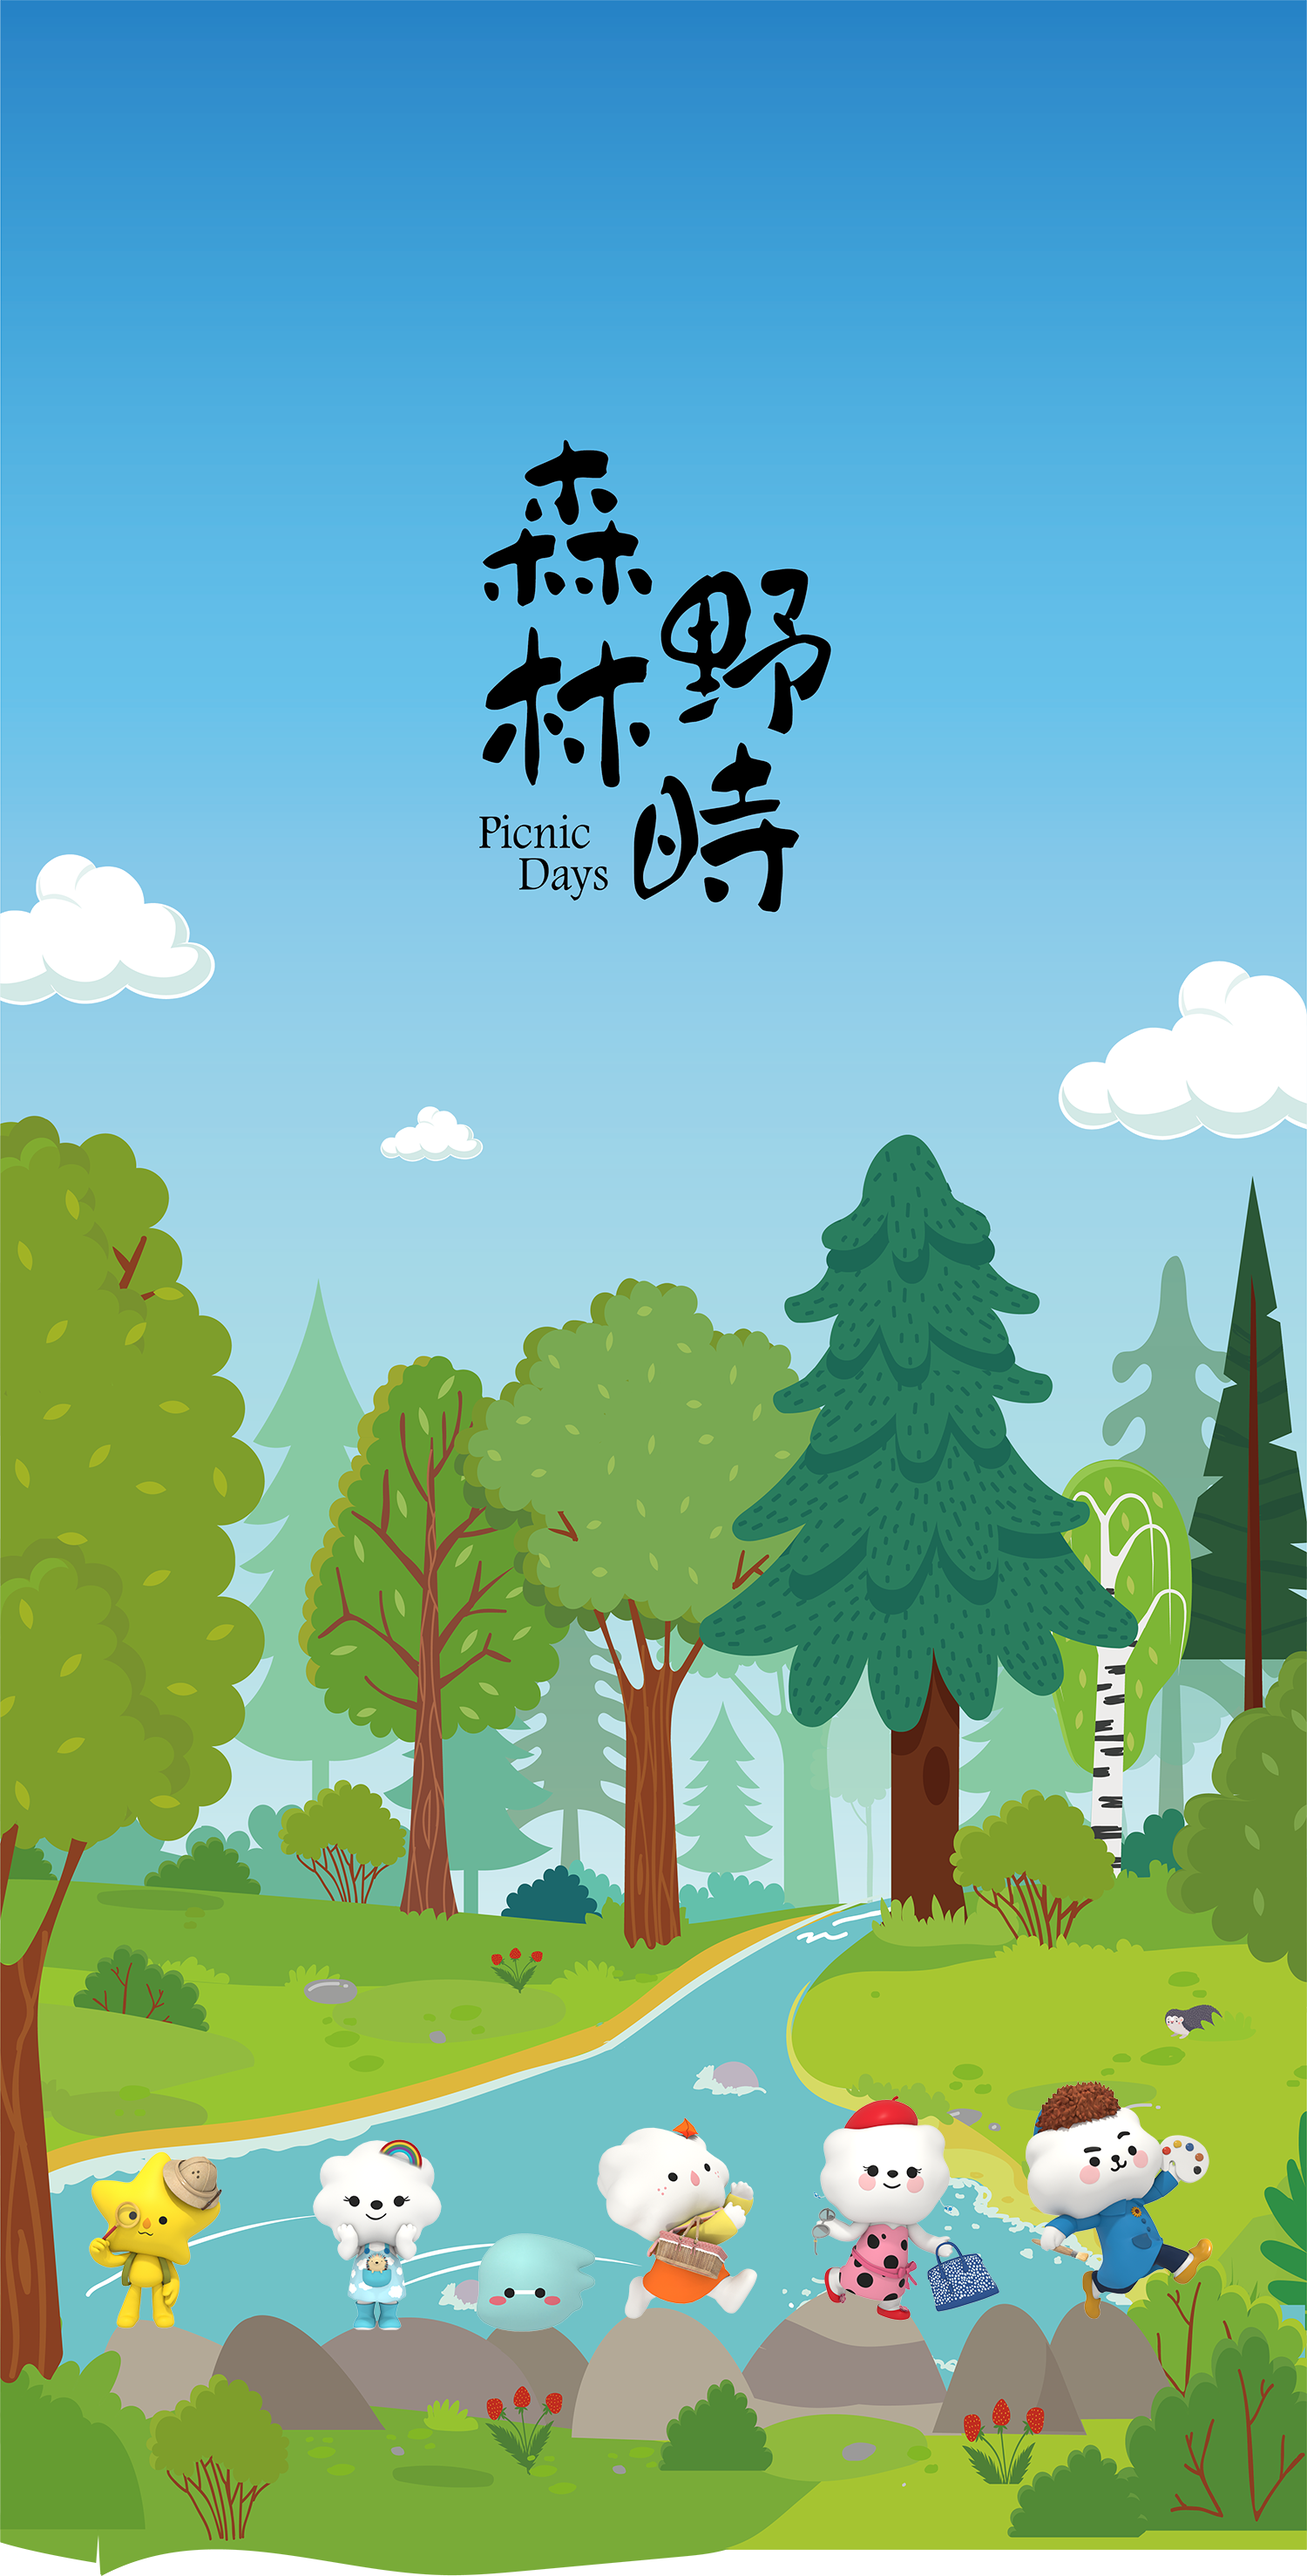
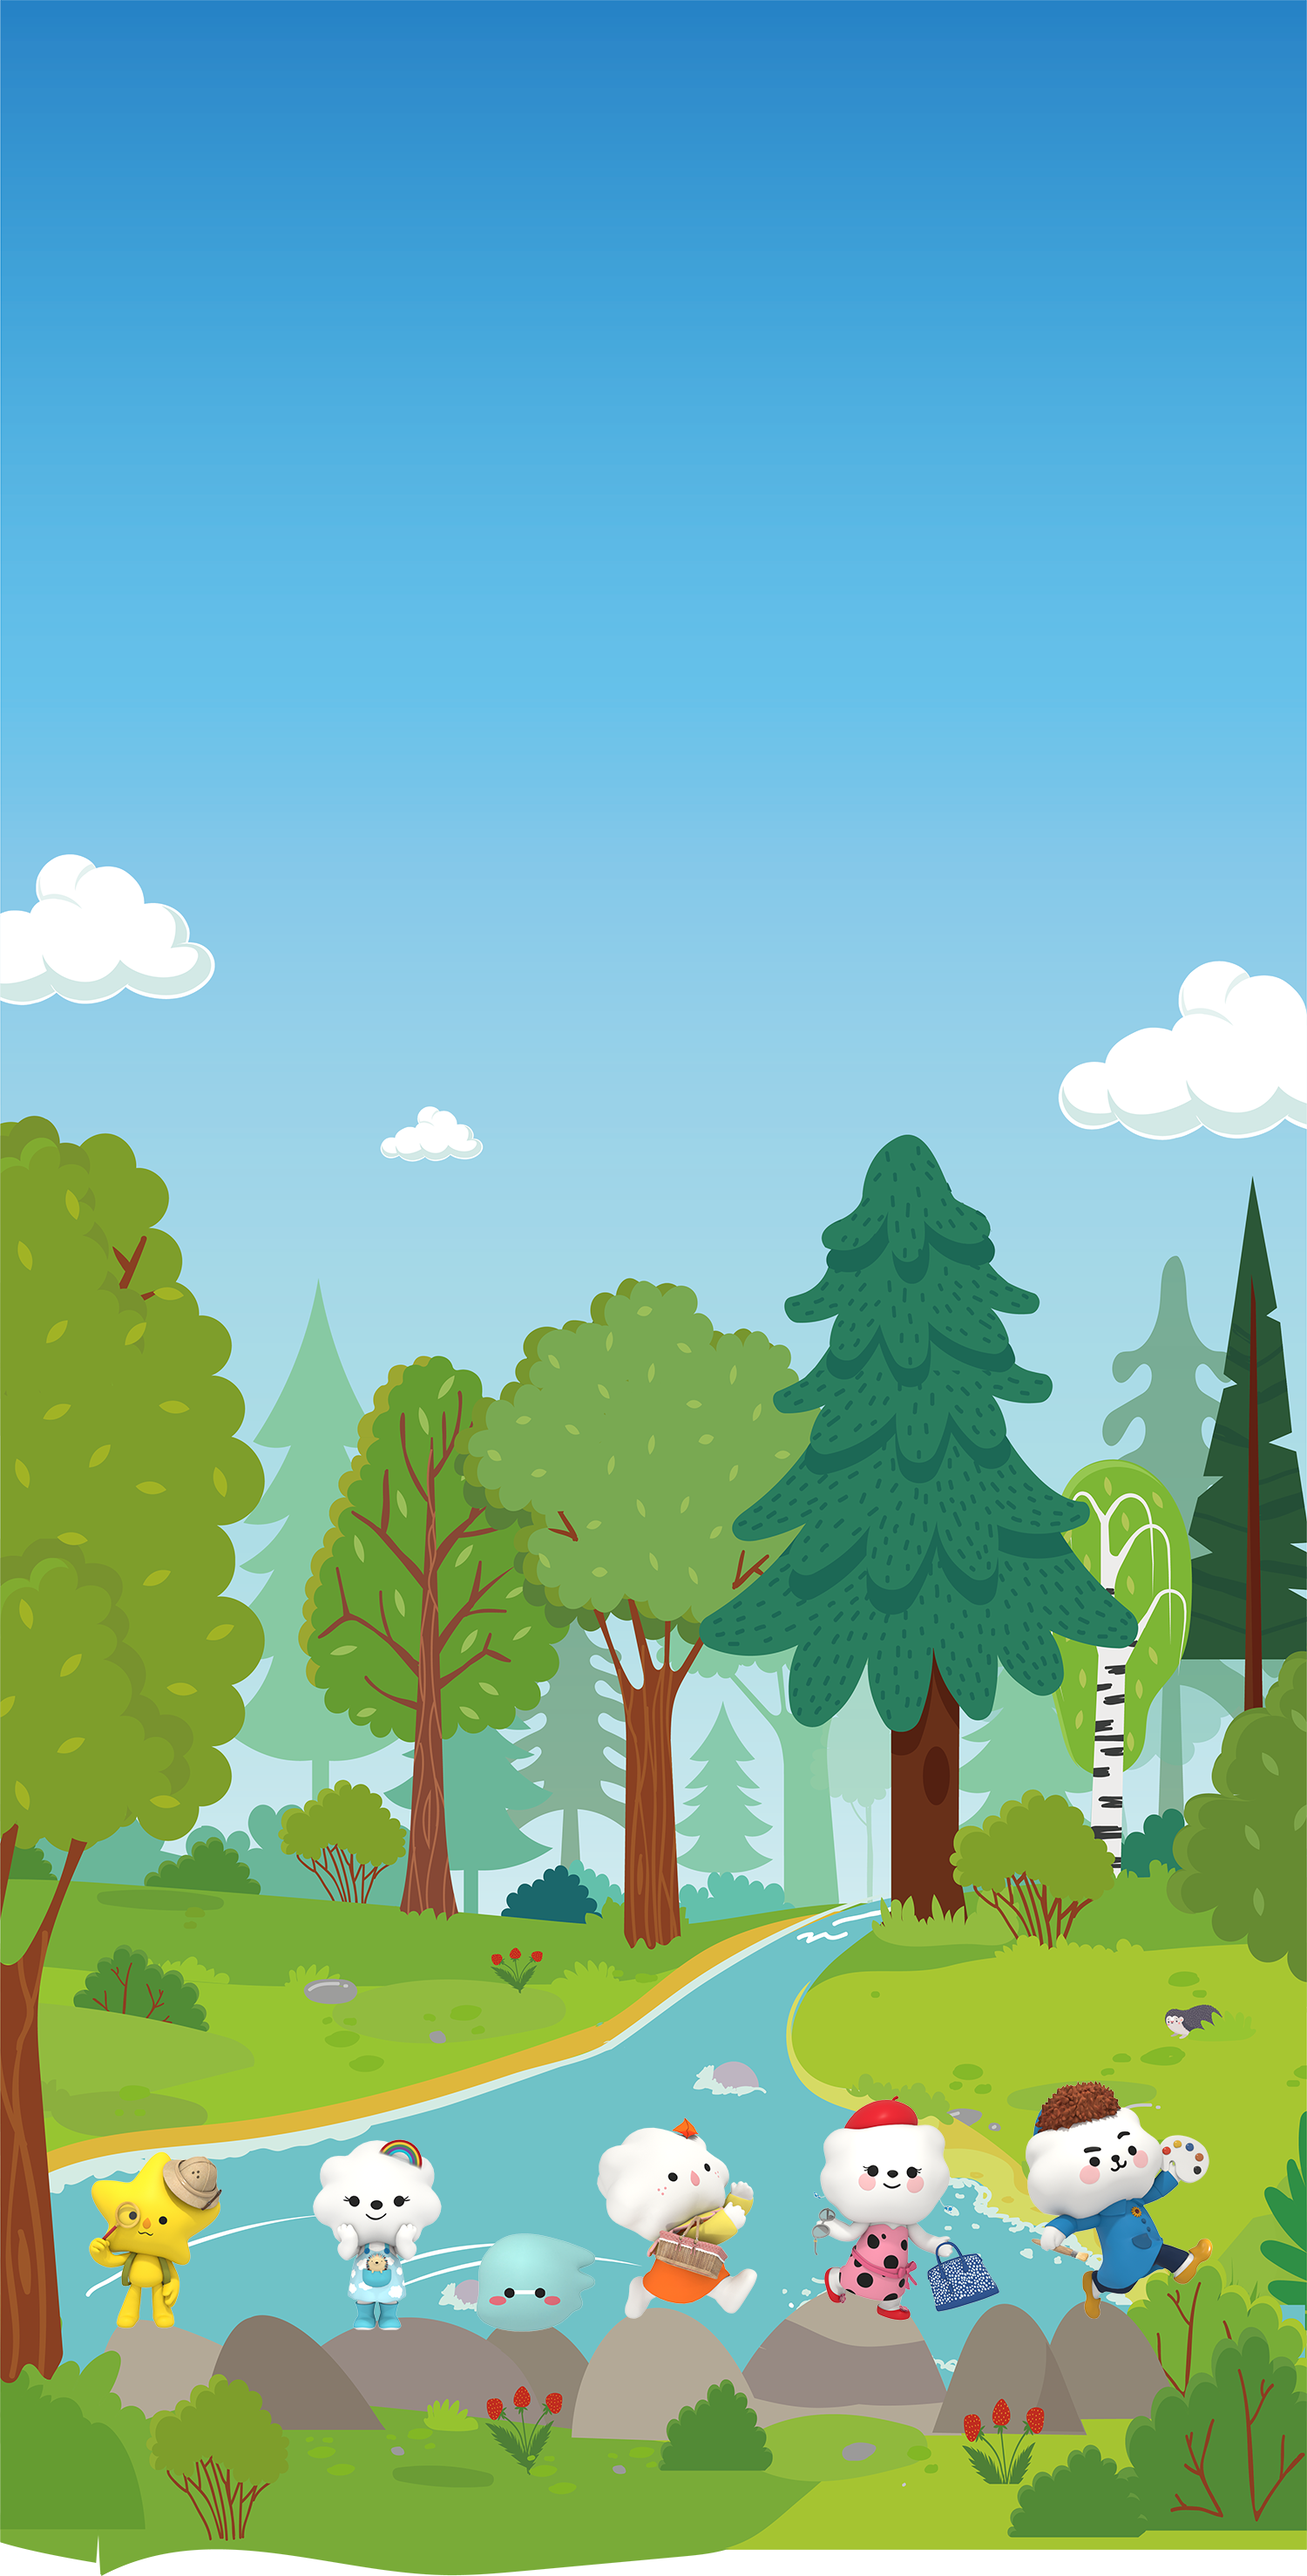
aa

Changed region(s): [[0.368, 0.1557, 0.644, 0.3736]]

diff --git a/public/css/style.css b/public/css/style.css
@@ -244,15 +244,14 @@ header .icon .menu-box .menu .bar:nth-child(3) {
 }
 
 /* 首頁 */
-
 .home-pic-box {
     width: 100%;
-    height: calc(100% - 50px);
+    height: calc(100% - 100px);
     position: absolute;
     top: 50px;
     left: 0;
     background-image: url(../img/home-pic1.png);
-    background-position: center 25%;
+    background-position: center bottom;
     animation-name: homepic;
     animation-duration: 1.2s;
     animation-iteration-count: infinite;
@@ -274,6 +273,12 @@ header .icon .menu-box .menu .bar:nth-child(3) {
     100% {
         background-image: url(../img/home-pic1.png);
     }
+}
+
+.home-pic-box img {
+    width: 20%;
+    display: block;
+    margin: 90px auto 0;    
 }
 
 .people-num {
@@ -606,7 +611,6 @@ button.order a {
 }
 
 /* nav */
-
 nav {
     width: 100%;
     height: 50px;
@@ -633,8 +637,8 @@ nav ul {
 
 nav ul li {
     width: 20%;
-    height: 40px;
-    border-right: 1px solid #905F2C;
+    height: 50px;
+    border-right: 1.5px solid #905F2C;
     position: relative;
 }
 
@@ -645,7 +649,7 @@ nav ul li:before {
     content: "";
     position: absolute;
     top: 0;
-    right: -2.5px;
+    right: -3px;
     background-color: #905F2C;
     z-index: 1;
 }
@@ -657,7 +661,7 @@ nav ul li:after {
     content: "";
     position: absolute;
     bottom: 0;
-    right: -2.5px;
+    right: -3px;
     background-color: #905F2C;
     z-index: 1;
 }
@@ -685,11 +689,11 @@ nav ul li a {
 
 nav ul li a .text {
     position: absolute;
-    top: 50%;
+    top: 30%;
     left: 50%;
-    transform: translate(-50%,-50%);
+    transform: translateX(-50%);
     z-index: 2;
-    height: 100%;
+    /* height: 100%; */
     width: 100%;
 }
 
@@ -785,15 +789,15 @@ footer .link img {
         height: auto;
         bottom: -70px;
     }
-    nav ul li {
+    /* nav ul li {
         border-right: 2px solid #905F2C;
-    }
-    nav ul li:before {
+    } */
+    /* nav ul li:before {
         right: -4px;
     }
     nav ul li:after {
         right: -4px;
-    }
+    } */
     nav ul li a h3 {
         font-size: 16px;
     }
@@ -828,14 +832,17 @@ footer .link img {
     nav img.nav-wave {
         bottom: -40px;
     }
-    nav ul li:before {
+    nav ul li {
+        height: 40px;
+    }
+    /* nav ul li:before {
         height: 6px;
         width: 6px;
     }
     nav ul li:after {
         height: 6px;
         width: 6px;
-    }
+    } */
     nav ul li a h3 {
         font-size: 14px;
     }
@@ -872,6 +879,9 @@ footer .link img {
     }
     #user-box .modal-content .login-pic .cat {
         top: 100px;
+    }
+    nav img.nav-wave {
+        bottom: -10px;
     }
     footer .link {
         width: 50%;

diff --git a/index.html b/index.html
@@ -68,7 +68,9 @@
         </div>
     </div>
     <main>
-        <div class="home-pic-box bg"></div>
+        <div class="home-pic-box bg">
+            <img src="./public/img/logo-home.png" alt="">
+        </div>
         <div class="people-num">
             <div>
                 <span>當日人數</span>
